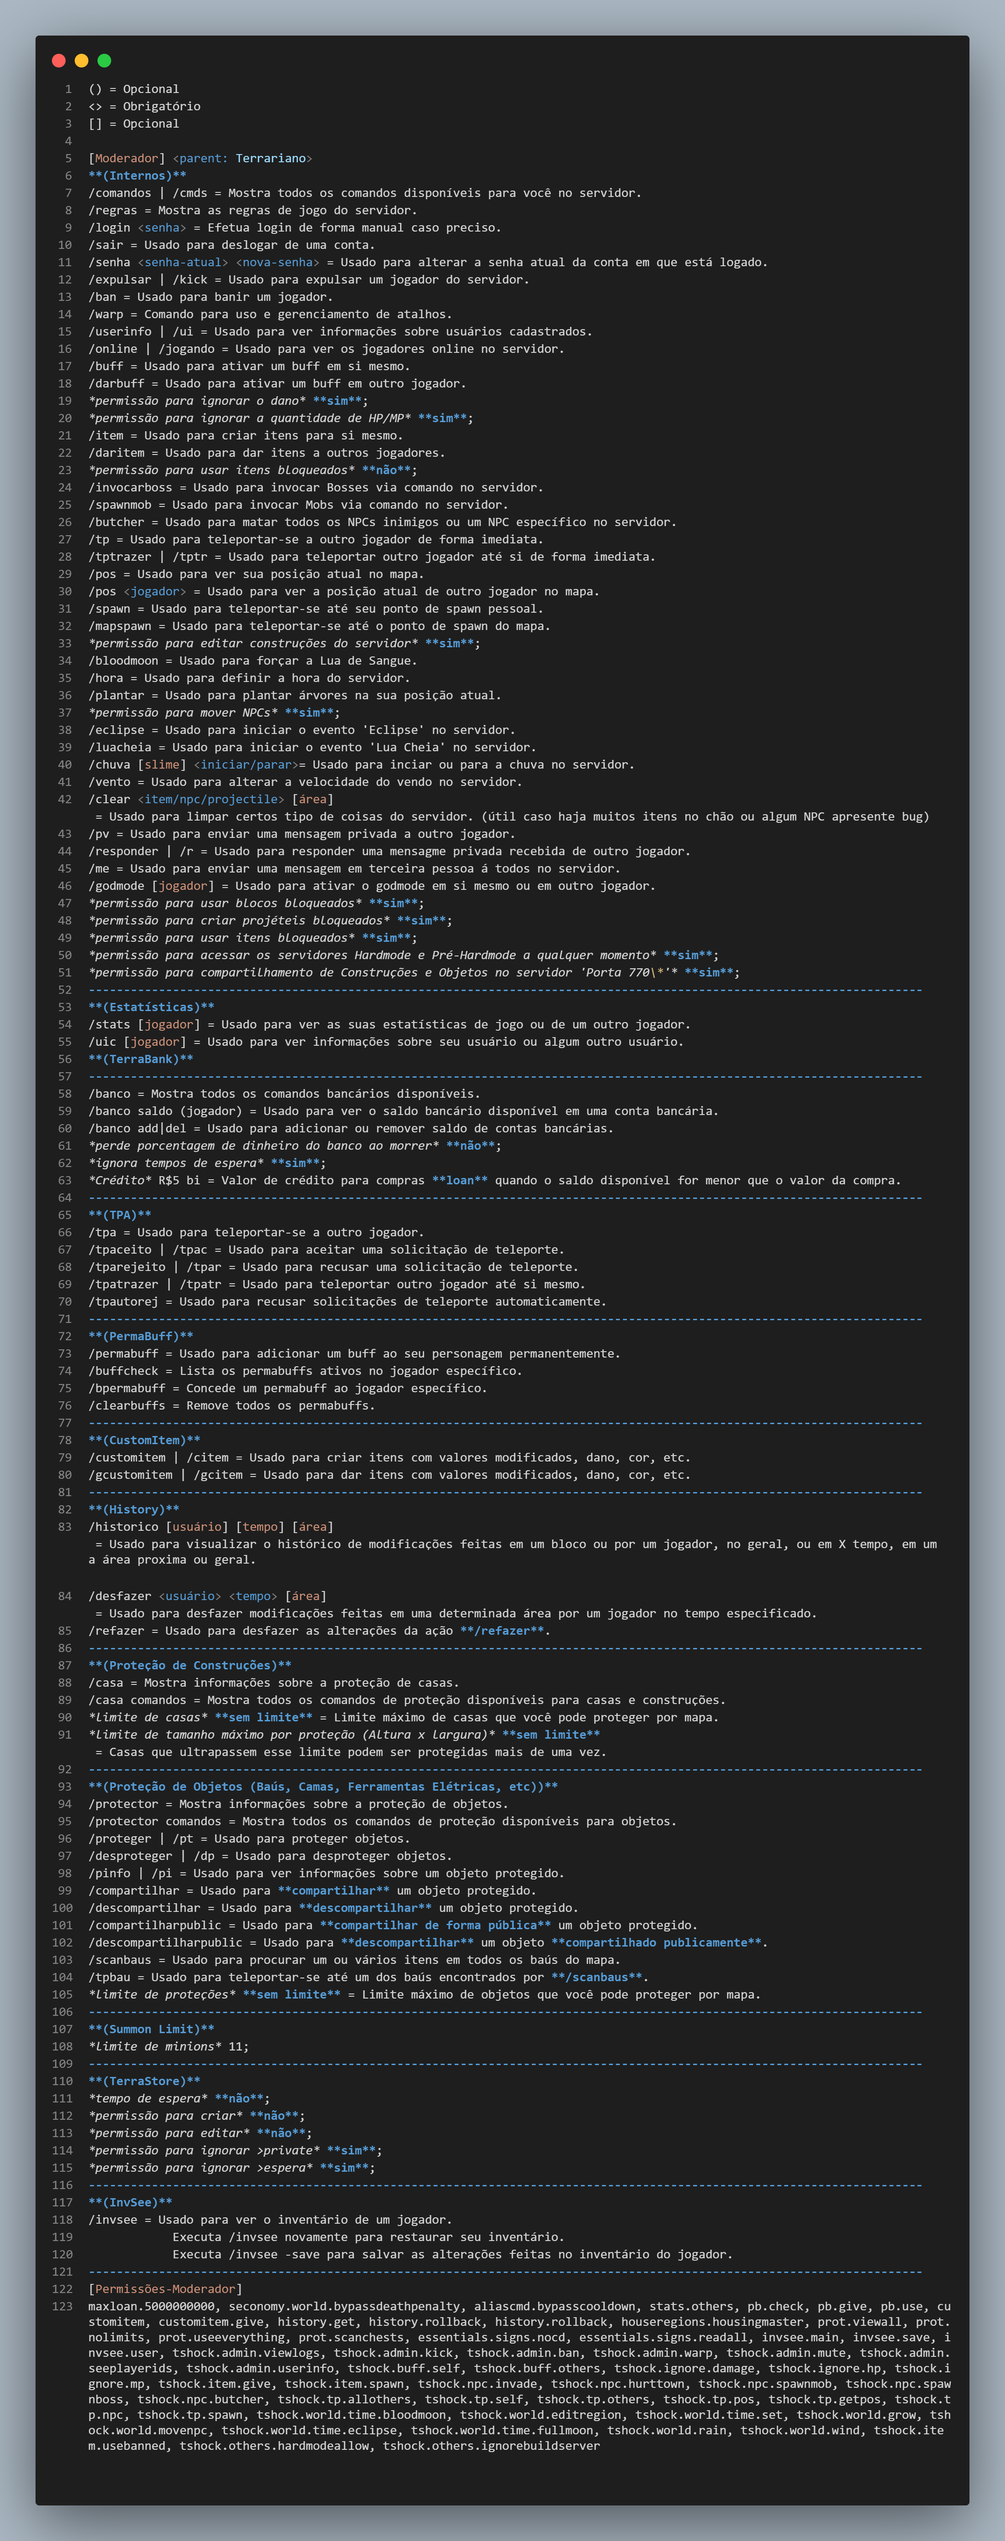
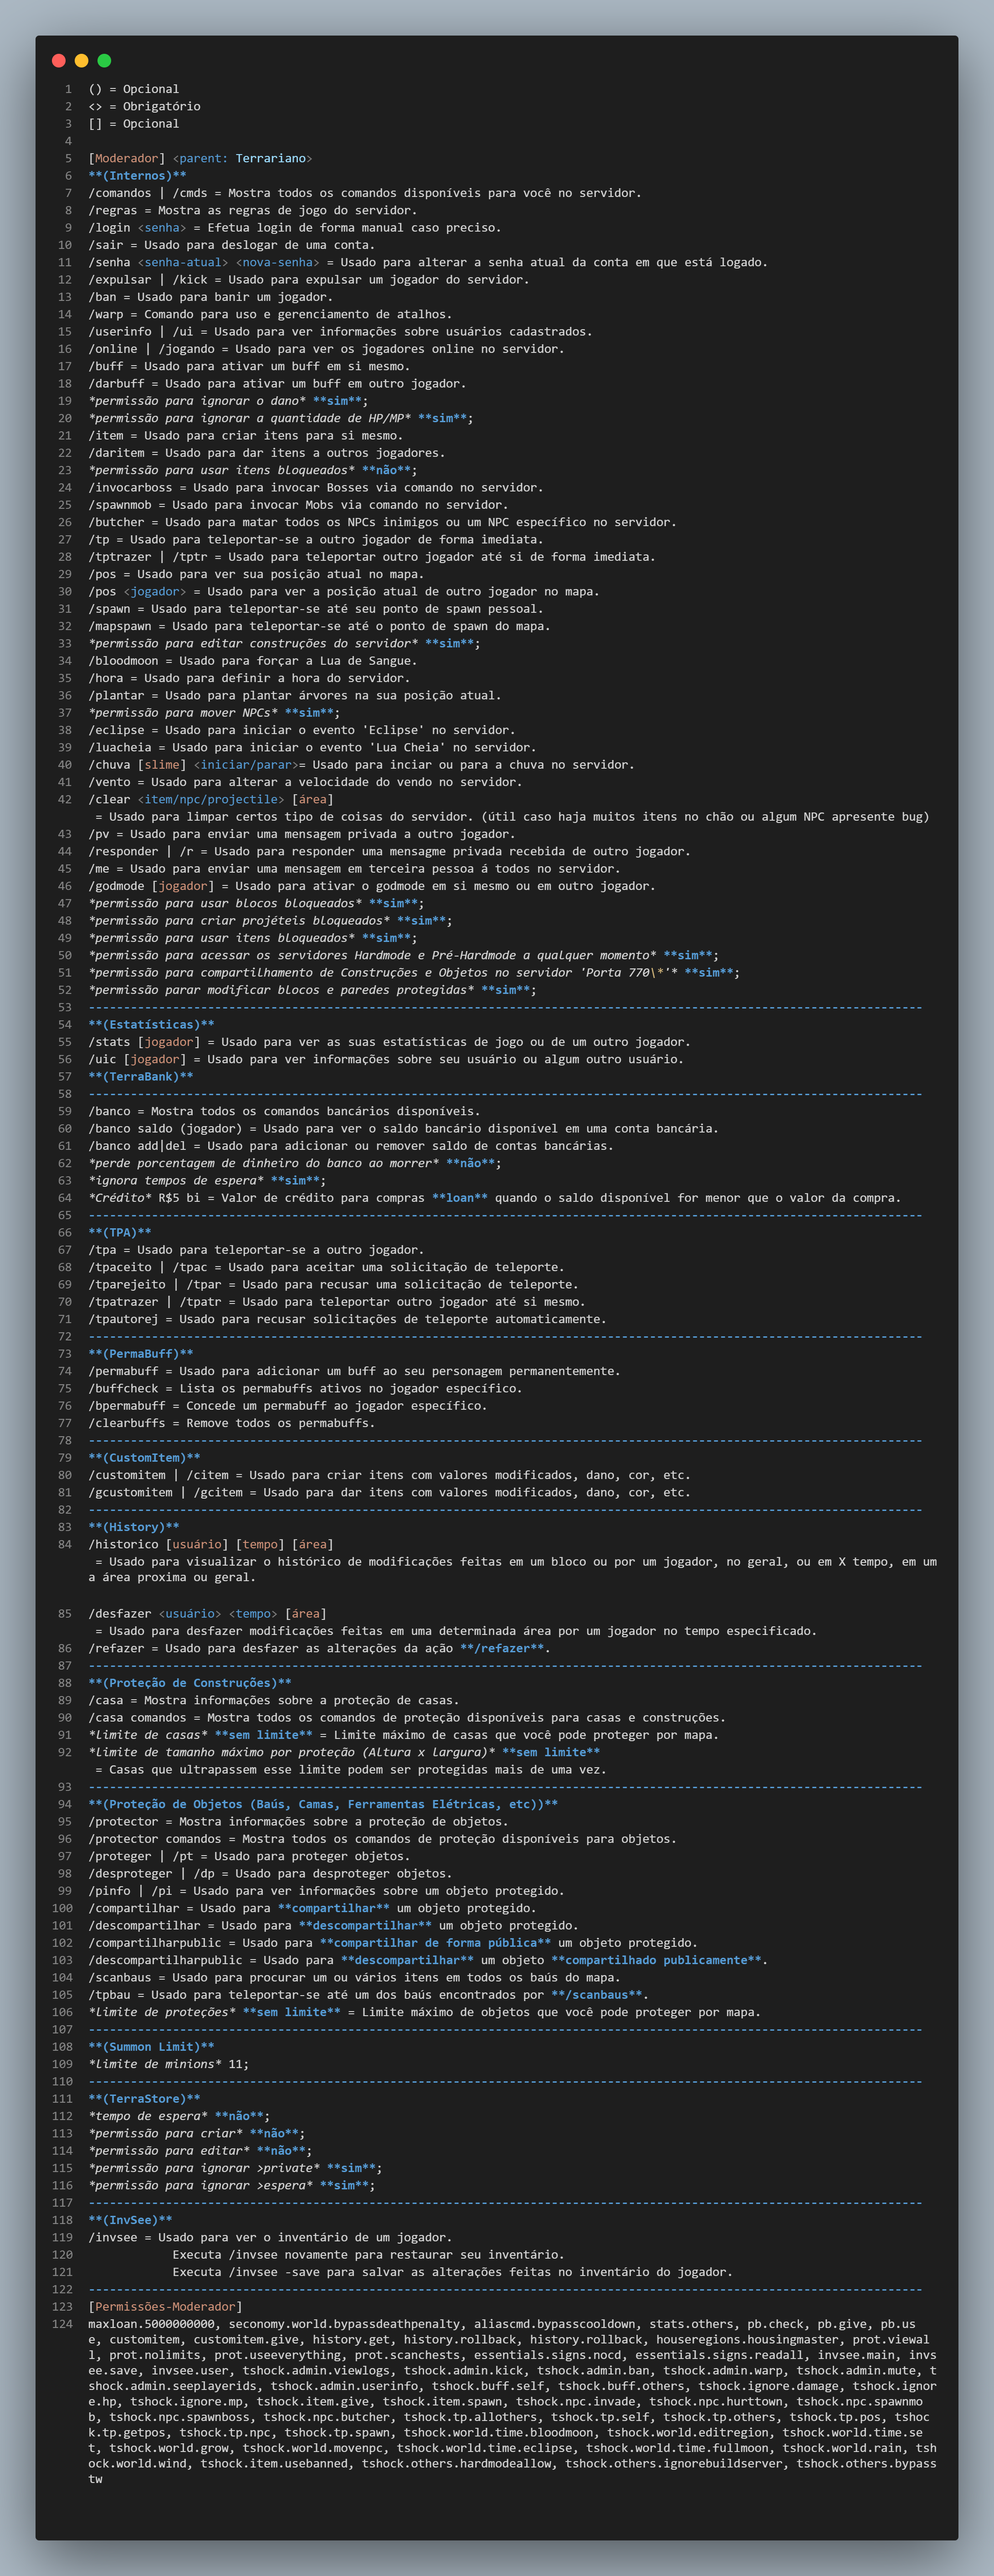
1.2.2

Changed region(s): [[0.0312, 0.0312, 0.9349, 0.9677]]

diff --git a/Mobile/1.3.0/Survival/Permissões/Moderador.md b/Mobile/1.3.0/Survival/Permissões/Moderador.md
@@ -49,6 +49,7 @@
 *permissão para usar itens bloqueados* **sim**;
 *permissão para acessar os servidores Hardmode e Pré-Hardmode a qualquer momento* **sim**;
 *permissão para compartilhamento de Construções e Objetos no servidor 'Porta 770\*'* **sim**;
+*permissão parar modificar blocos e paredes protegidas* **sim**;
 -----------------------------------------------------------------------------------------------------------------------
 **(Estatísticas)**
 /stats [jogador] = Usado para ver as suas estatísticas de jogo ou de um outro jogador.
@@ -120,4 +121,4 @@
             Executa /invsee -save para salvar as alterações feitas no inventário do jogador.
 -----------------------------------------------------------------------------------------------------------------------
 [Permissões-Moderador]
-maxloan.5000000000, seconomy.world.bypassdeathpenalty, aliascmd.bypasscooldown, stats.others, pb.check, pb.give, pb.use, customitem, customitem.give, history.get, history.rollback, history.rollback, houseregions.housingmaster, prot.viewall, prot.nolimits, prot.useeverything, prot.scanchests, essentials.signs.nocd, essentials.signs.readall, invsee.main, invsee.save, invsee.user, tshock.admin.viewlogs, tshock.admin.kick, tshock.admin.ban, tshock.admin.warp, tshock.admin.mute, tshock.admin.seeplayerids, tshock.admin.userinfo, tshock.buff.self, tshock.buff.others, tshock.ignore.damage, tshock.ignore.hp, tshock.ignore.mp, tshock.item.give, tshock.item.spawn, tshock.npc.invade, tshock.npc.hurttown, tshock.npc.spawnmob, tshock.npc.spawnboss, tshock.npc.butcher, tshock.tp.allothers, tshock.tp.self, tshock.tp.others, tshock.tp.pos, tshock.tp.getpos, tshock.tp.npc, tshock.tp.spawn, tshock.world.time.bloodmoon, tshock.world.editregion, tshock.world.time.set, tshock.world.grow, tshock.world.movenpc, tshock.world.time.eclipse, tshock.world.time.fullmoon, tshock.world.rain, tshock.world.wind, tshock.item.usebanned, tshock.others.hardmodeallow, tshock.others.ignorebuildserver
+maxloan.5000000000, seconomy.world.bypassdeathpenalty, aliascmd.bypasscooldown, stats.others, pb.check, pb.give, pb.use, customitem, customitem.give, history.get, history.rollback, history.rollback, houseregions.housingmaster, prot.viewall, prot.nolimits, prot.useeverything, prot.scanchests, essentials.signs.nocd, essentials.signs.readall, invsee.main, invsee.save, invsee.user, tshock.admin.viewlogs, tshock.admin.kick, tshock.admin.ban, tshock.admin.warp, tshock.admin.mute, tshock.admin.seeplayerids, tshock.admin.userinfo, tshock.buff.self, tshock.buff.others, tshock.ignore.damage, tshock.ignore.hp, tshock.ignore.mp, tshock.item.give, tshock.item.spawn, tshock.npc.invade, tshock.npc.hurttown, tshock.npc.spawnmob, tshock.npc.spawnboss, tshock.npc.butcher, tshock.tp.allothers, tshock.tp.self, tshock.tp.others, tshock.tp.pos, tshock.tp.getpos, tshock.tp.npc, tshock.tp.spawn, tshock.world.time.bloodmoon, tshock.world.editregion, tshock.world.time.set, tshock.world.grow, tshock.world.movenpc, tshock.world.time.eclipse, tshock.world.time.fullmoon, tshock.world.rain, tshock.world.wind, tshock.item.usebanned, tshock.others.hardmodeallow, tshock.others.ignorebuildserver, tshock.others.bypasstw
